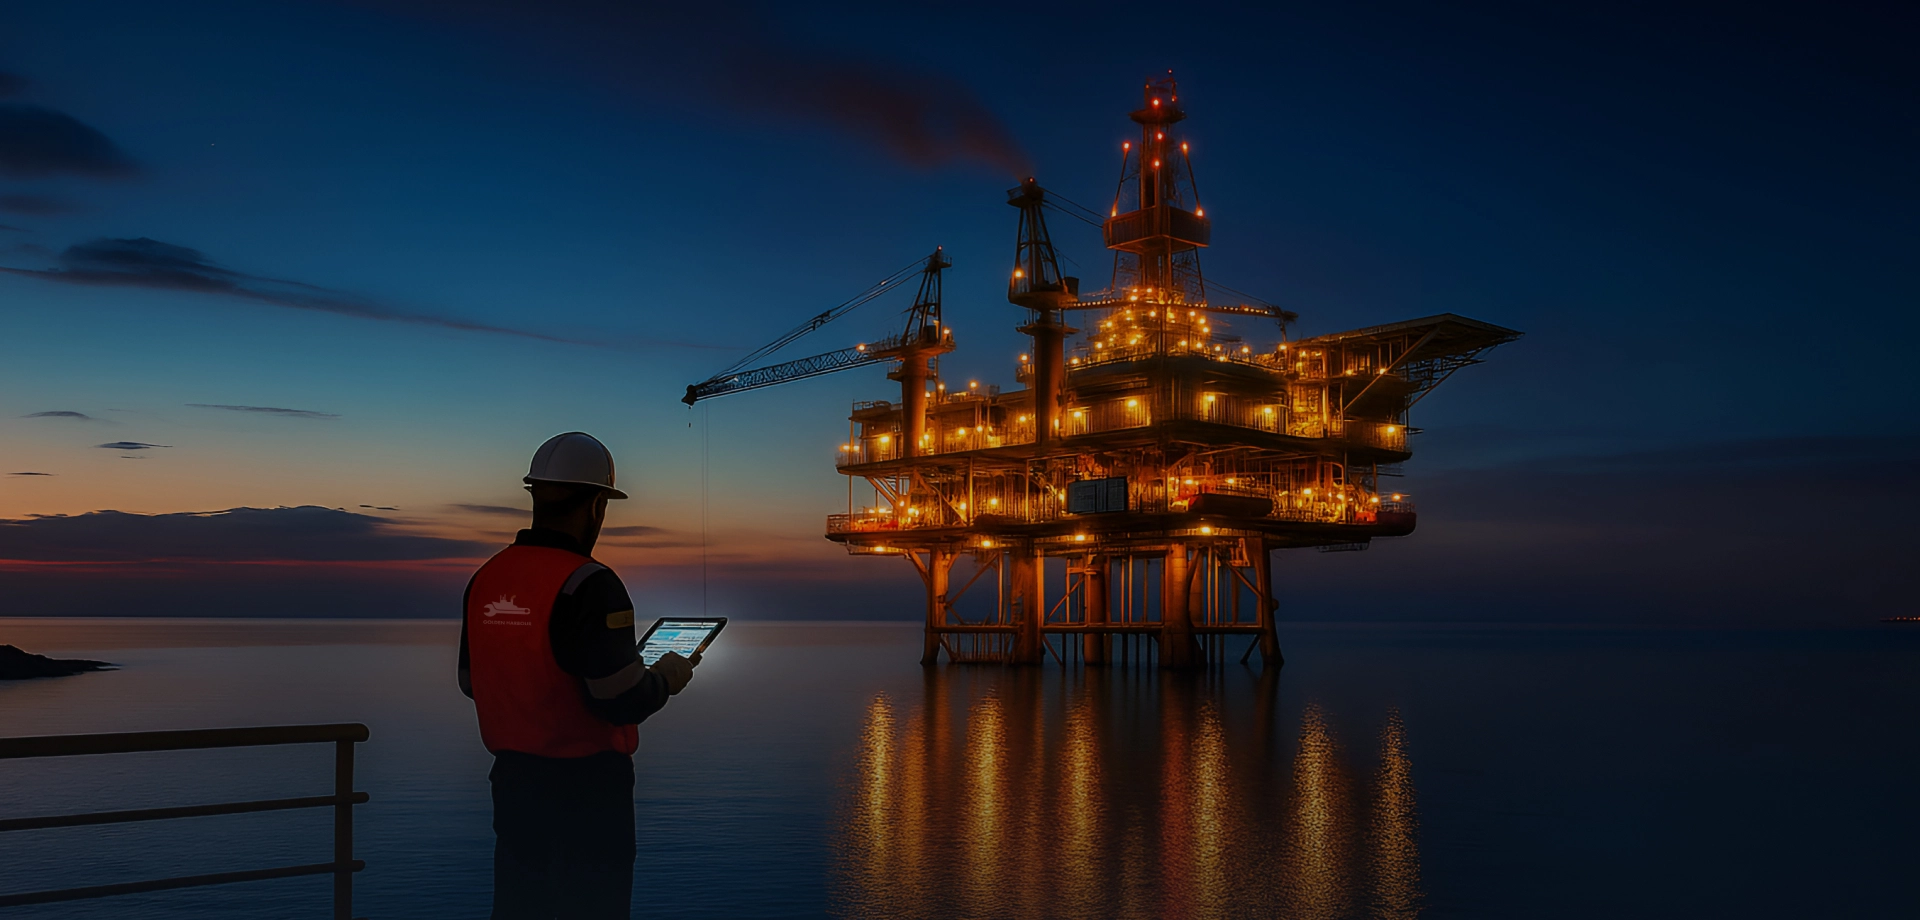
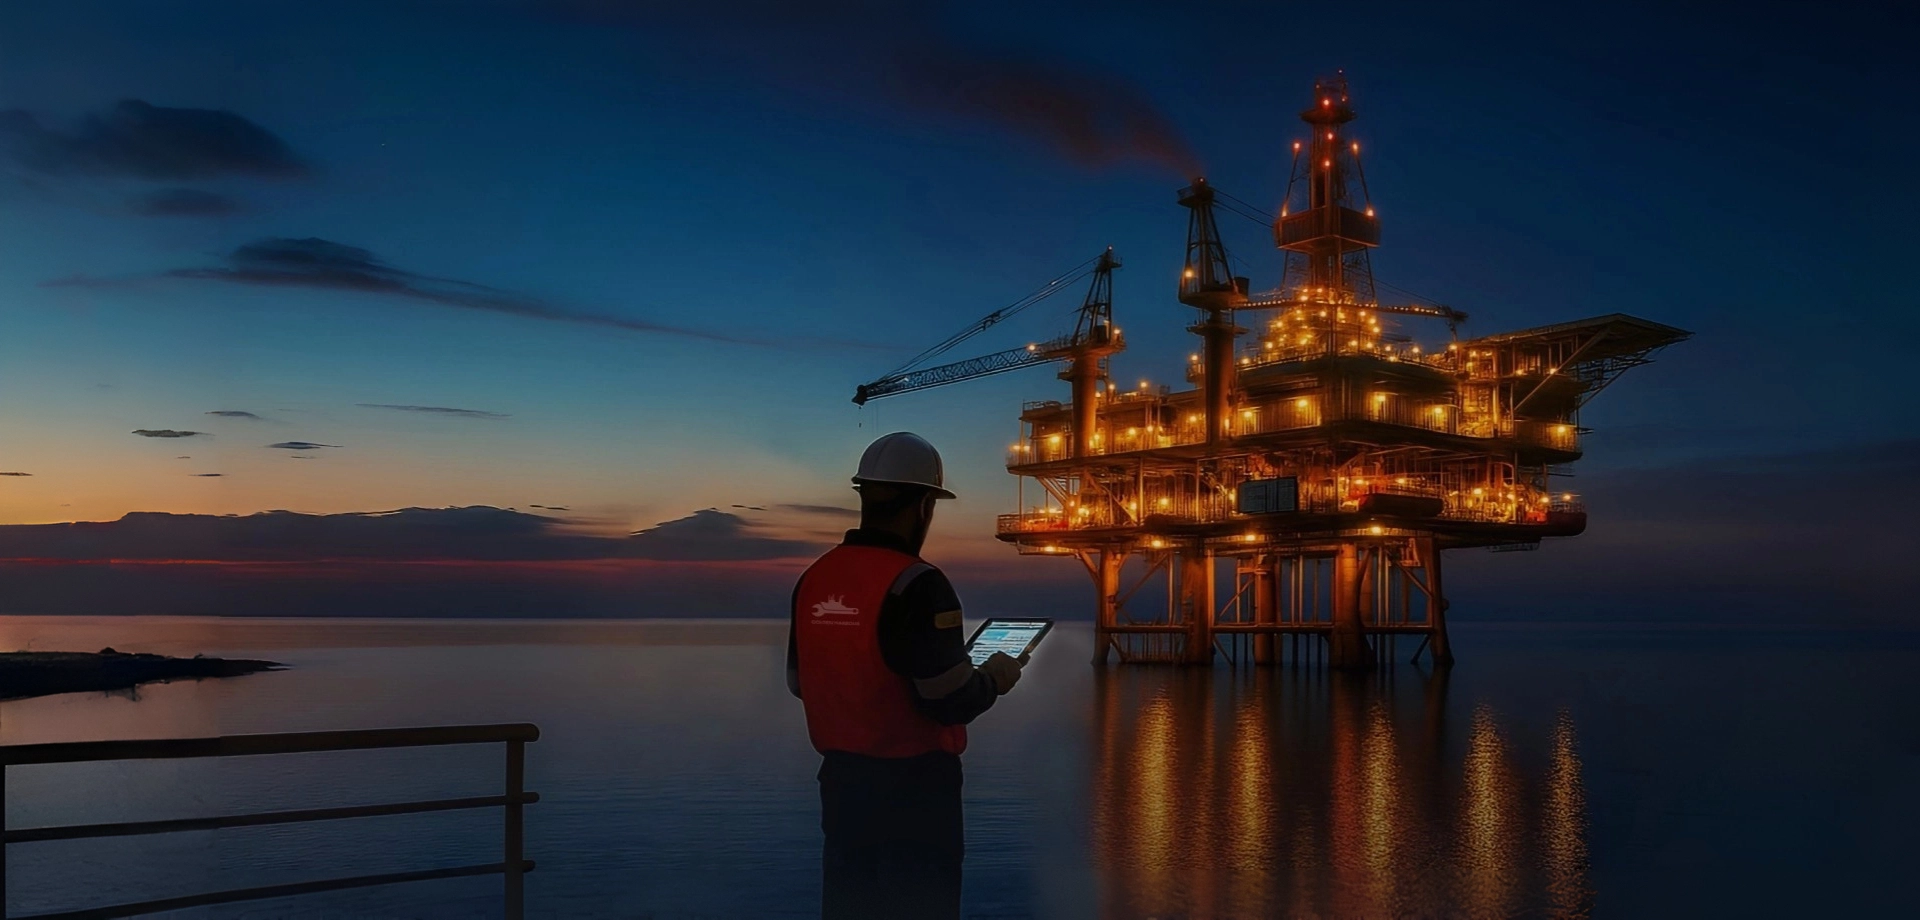
Added advanced search mechanism (ignore spell mistakes and auto suggessiond)

diff --git a/app/Http/Controllers/DashboardController.php b/app/Http/Controllers/DashboardController.php
@@ -1375,55 +1375,15 @@ public function productSearch(Request $request)
         return response()->json([]);
     }
 
-    $products = Product::with(['category', 'subcategory'])
-        ->whereNull('deleted_at')
-        ->whereHas('category', function($q){
-            $q->whereRaw('LOWER(name) != ?', ['ferrous metal & alloys']);
-        })
-        ->where(function ($q) use ($search) {
-            $q->where('title', 'LIKE', "%{$search}%")
-              ->orWhereHas('subcategory', function ($subQ) use ($search) {
-                  $subQ->where('name', 'LIKE', "%{$search}%");
-              })
-              ->orWhereRaw('EXISTS (SELECT 1 FROM subcategory WHERE subcategory.id = product.subcategory_id AND CONCAT(subcategory.name, " ", product.title) LIKE ?)', ["%{$search}%"]);
-        })
-        ->when(!empty($categoryIds), function ($query) use ($categoryIds) {
-            $query->whereIn('category_id', $categoryIds);
-        })
-        ->when(!empty($industryIds), function ($query) use ($industryIds) {
-            $query->where(function ($q) use ($industryIds) {
-                foreach ($industryIds as $id) {
-                    $q->orWhere('industries', 'LIKE', "%\"{$id}\"%")
-                      ->orWhere('industries', 'LIKE', "%{$id}%");
-                }
-            });
-        })
-        ->get();
+    [$products, $subproducts] = $this->getProductSearchMatches($search, $categoryIds, $industryIds);
 
-    $subproducts = SubProduct::with(['category', 'subcategory', 'product'])
-        ->whereNull('deleted_at')
-        ->where(function ($q) use ($search) {
-            $q->where('title', 'LIKE', "%{$search}%")
-              ->orWhereHas('subcategory', function ($subQ) use ($search) {
-                  $subQ->where('name', 'LIKE', "%{$search}%");
-              })
-              ->orWhereRaw('EXISTS (SELECT 1 FROM subcategory WHERE subcategory.id = subproduct.subcategory_id AND CONCAT(subcategory.name, " ", subproduct.title) LIKE ?)', ["%{$search}%"])
-              ->orWhereRaw('EXISTS (SELECT 1 FROM product WHERE product.id = subproduct.product_id AND CONCAT(product.title, " ", subproduct.title) LIKE ?)', ["%{$search}%"]);
-        })
-        ->when(!empty($categoryIds), function ($query) use ($categoryIds) {
-            $query->whereIn('category_id', $categoryIds);
-        })
-        ->when(!empty($industryIds), function ($query) use ($industryIds) {
-            $query->whereHas('product', function ($q) use ($industryIds) {
-                $q->where(function ($sq) use ($industryIds) {
-                    foreach ($industryIds as $id) {
-                        $sq->orWhere('industries', 'LIKE', "%\"{$id}\"%")
-                           ->orWhere('industries', 'LIKE', "%{$id}%");
-                    }
-                });
-            });
-        })
-        ->get();
+    $suggestedSearch = null;
+    if ($products->isEmpty() && $subproducts->isEmpty()) {
+        $suggestedSearch = $this->suggestProductSearchTerm($search, $categoryIds, $industryIds);
+        if ($suggestedSearch) {
+            [$products, $subproducts] = $this->getProductSearchMatches($suggestedSearch, $categoryIds, $industryIds);
+        }
+    }
 
     // Collect all industry IDs
     $allIndustryIds = [];
@@ -1522,7 +1482,183 @@ public function productSearch(Request $request)
         ];
     })->filter();
 
-    return response()->json($mappedProducts->merge($mappedSubproducts)->values());
+    $results = $mappedProducts->merge($mappedSubproducts)->values();
+
+    if ($suggestedSearch && $results->isNotEmpty()) {
+        return response()->json([
+            'suggestion' => $suggestedSearch,
+            'items' => $results,
+        ]);
+    }
+
+    return response()->json($results);
+}
+
+private function getProductSearchMatches($search, $categoryIds, $industryIds)
+{
+    $products = Product::with(['category', 'subcategory'])
+        ->whereNull('deleted_at')
+        ->whereHas('category', function($q){
+            $q->whereRaw('LOWER(name) != ?', ['ferrous metal & alloys']);
+        })
+        ->where(function ($q) use ($search) {
+            $q->where('title', 'LIKE', "%{$search}%")
+              ->orWhereHas('subcategory', function ($subQ) use ($search) {
+                  $subQ->where('name', 'LIKE', "%{$search}%");
+              })
+              ->orWhereRaw('EXISTS (SELECT 1 FROM subcategory WHERE subcategory.id = product.subcategory_id AND CONCAT(subcategory.name, " ", product.title) LIKE ?)', ["%{$search}%"]);
+        })
+        ->when(!empty($categoryIds), function ($query) use ($categoryIds) {
+            $query->whereIn('category_id', $categoryIds);
+        })
+        ->when(!empty($industryIds), function ($query) use ($industryIds) {
+            $query->where(function ($q) use ($industryIds) {
+                foreach ($industryIds as $id) {
+                    $q->orWhere('industries', 'LIKE', "%\"{$id}\"%")
+                      ->orWhere('industries', 'LIKE', "%{$id}%");
+                }
+            });
+        })
+        ->get();
+
+    $subproducts = SubProduct::with(['category', 'subcategory', 'product'])
+        ->whereNull('deleted_at')
+        ->where(function ($q) use ($search) {
+            $q->where('title', 'LIKE', "%{$search}%")
+              ->orWhereHas('subcategory', function ($subQ) use ($search) {
+                  $subQ->where('name', 'LIKE', "%{$search}%");
+              })
+              ->orWhereRaw('EXISTS (SELECT 1 FROM subcategory WHERE subcategory.id = subproduct.subcategory_id AND CONCAT(subcategory.name, " ", subproduct.title) LIKE ?)', ["%{$search}%"])
+              ->orWhereRaw('EXISTS (SELECT 1 FROM product WHERE product.id = subproduct.product_id AND CONCAT(product.title, " ", subproduct.title) LIKE ?)', ["%{$search}%"]);
+        })
+        ->when(!empty($categoryIds), function ($query) use ($categoryIds) {
+            $query->whereIn('category_id', $categoryIds);
+        })
+        ->when(!empty($industryIds), function ($query) use ($industryIds) {
+            $query->whereHas('product', function ($q) use ($industryIds) {
+                $q->where(function ($sq) use ($industryIds) {
+                    foreach ($industryIds as $id) {
+                        $sq->orWhere('industries', 'LIKE', "%\"{$id}\"%")
+                           ->orWhere('industries', 'LIKE', "%{$id}%");
+                    }
+                });
+            });
+        })
+        ->get();
+
+    return [$products, $subproducts];
+}
+
+private function suggestProductSearchTerm($search, $categoryIds, $industryIds)
+{
+    $phrases = $this->productSearchPhrases($categoryIds, $industryIds);
+    $normalizedSearch = $this->normalizeSearchText($search);
+    if ($normalizedSearch === '') {
+        return null;
+    }
+
+    foreach ($phrases as $phrase) {
+        if (strpos($this->normalizeSearchText($phrase), $normalizedSearch) === 0) {
+            return $phrase;
+        }
+    }
+
+    $words = [];
+    foreach ($phrases as $phrase) {
+        foreach (explode(' ', $this->normalizeSearchText($phrase)) as $word) {
+            if (strlen($word) > 2) {
+                $words[$word] = $word;
+            }
+        }
+    }
+
+    $corrected = [];
+    foreach (explode(' ', $normalizedSearch) as $queryWord) {
+        if ($queryWord === '') {
+            continue;
+        }
+
+        $bestWord = $queryWord;
+        $bestDistance = 99;
+        foreach ($words as $word) {
+            if (abs(strlen($word) - strlen($queryWord)) > 2) {
+                continue;
+            }
+
+            $distance = levenshtein($queryWord, $word);
+            if ($distance < $bestDistance) {
+                $bestDistance = $distance;
+                $bestWord = $word;
+            }
+        }
+
+        $corrected[] = $bestDistance <= 2 ? $bestWord : $queryWord;
+    }
+
+    $suggestion = trim(implode(' ', $corrected));
+    return $suggestion !== $normalizedSearch ? $suggestion : null;
+}
+
+private function productSearchPhrases($categoryIds, $industryIds)
+{
+    $products = Product::with(['category', 'subcategory'])
+        ->whereNull('deleted_at')
+        ->whereHas('category', function($q){
+            $q->whereRaw('LOWER(name) != ?', ['ferrous metal & alloys']);
+        })
+        ->when(!empty($categoryIds), function ($query) use ($categoryIds) {
+            $query->whereIn('category_id', $categoryIds);
+        })
+        ->when(!empty($industryIds), function ($query) use ($industryIds) {
+            $query->where(function ($q) use ($industryIds) {
+                foreach ($industryIds as $id) {
+                    $q->orWhere('industries', 'LIKE', "%\"{$id}\"%")
+                      ->orWhere('industries', 'LIKE', "%{$id}%");
+                }
+            });
+        })
+        ->limit(300)
+        ->get();
+
+    $subproducts = SubProduct::with(['category', 'subcategory', 'product'])
+        ->whereNull('deleted_at')
+        ->when(!empty($categoryIds), function ($query) use ($categoryIds) {
+            $query->whereIn('category_id', $categoryIds);
+        })
+        ->when(!empty($industryIds), function ($query) use ($industryIds) {
+            $query->whereHas('product', function ($q) use ($industryIds) {
+                $q->where(function ($sq) use ($industryIds) {
+                    foreach ($industryIds as $id) {
+                        $sq->orWhere('industries', 'LIKE', "%\"{$id}\"%")
+                           ->orWhere('industries', 'LIKE', "%{$id}%");
+                    }
+                });
+            });
+        })
+        ->limit(300)
+        ->get();
+
+    $phrases = [];
+    foreach ($products as $product) {
+        $phrases[] = $product->title;
+        $phrases[] = trim(($product->subcategory->name ?? '') . ' ' . $product->title);
+        $phrases[] = trim(($product->category->name ?? '') . ' ' . ($product->subcategory->name ?? '') . ' ' . $product->title);
+    }
+
+    foreach ($subproducts as $subproduct) {
+        $phrases[] = $subproduct->title;
+        $phrases[] = trim(($subproduct->product->title ?? '') . ' ' . $subproduct->title);
+        $phrases[] = trim(($subproduct->subcategory->name ?? '') . ' ' . $subproduct->title);
+    }
+
+    return array_values(array_filter(array_unique($phrases)));
+}
+
+private function normalizeSearchText($value)
+{
+    $value = strtolower((string) $value);
+    $value = preg_replace('/[^a-z0-9]+/', ' ', $value);
+    return trim(preg_replace('/\s+/', ' ', $value));
 }
 
 

diff --git a/resources/views/layouts/frontheader.blade.php b/resources/views/layouts/frontheader.blade.php
@@ -1160,24 +1160,25 @@ document.addEventListener("DOMContentLoaded", function () {
             $resultsBox.show().html(`<div class="p-3 text-muted">${message}</div>`);
         }
 
-        function renderResults(items) {
+        function renderResults(items, suggestion = null) {
             if (!items.length) {
                 showMessage('No products found');
                 return;
             }
 
             $resultsBox.show();
+            const suggestionHtml = suggestion ? `<div class="px-3 py-2 text-muted">Showing results for <strong>${suggestion}</strong></div>` : '';
             const html = items.map((item) => `
                 <a href="${item.url}" class="d-flex gap-3">
                     <img src="${item.image}" alt="${item.title}" width="75">
                     <div>
                         <strong>${item.subcategory} ${item.title}</strong>
-                        <small><b>${item.type}</b> | ${item.category}</small>
+                        <small><b>Category</b> | ${item.category}</small>
                         ${item.industries ? `<small class="text-muted d-block mt-1"><b>Industries</b> - ${item.industries}</small>` : ''}
                     </div>
                 </a>
             `).join('');
-            $resultsBox.html(html);
+            $resultsBox.html(suggestionHtml + html);
         }
 
         function searchProducts() {
@@ -1201,7 +1202,14 @@ document.addEventListener("DOMContentLoaded", function () {
                 method: "GET",
                 data: data,
                 dataType: "json",
-                success: renderResults,
+                success: function(response) {
+                    if ($.isArray(response)) {
+                        renderResults(response);
+                        return;
+                    }
+
+                    renderResults(response.items || [], response.suggestion || null);
+                },
                 error: function() {
                     showMessage('Search is unavailable right now');
                 }
